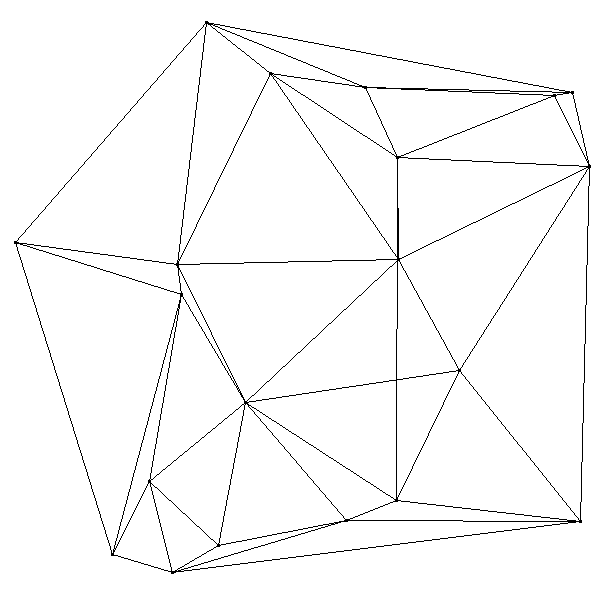
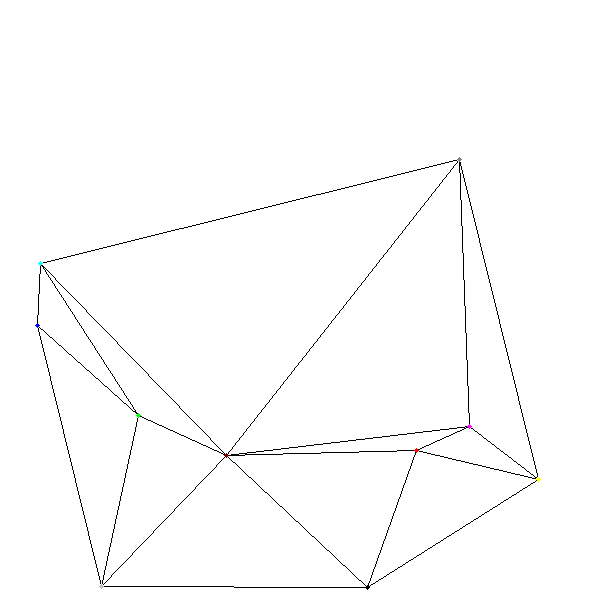
hotovo bez komentaru

diff --git a/simple_images.py b/simple_images.py
@@ -108,6 +108,25 @@ class bmpDrawing:
     size_x= 0
     size_y= 0
 
+    color_pointer = 0
+
+    # ccolors = [(0,0,0),(255,255),(255,0,0),(0,255,0),(0,0,255),(255,255,0),(0,255,255),(255,0,255),(192,192,192),(128,128,128),(128,0,0),(128,128,0),(0,128,0),(128,0,128),(0,128,128),(0,0,128)]
+    colors = [("Black", (0, 0, 0)),
+              ("Red", (255, 0, 0)),
+              ("Lime", (0, 255, 0)),
+              ("Blue", (0, 0, 255)),
+              ("Yellow", (255, 255, 0)),
+              ("CyanAqua", (0, 255, 255)),
+              ("Magenta", (255, 0, 255)),
+              ("Silver", (192, 192, 192)),
+              ("Gray", (128, 128, 128)),
+              ("Maroon", (128, 0, 0)),
+              ("Olive", (128, 128, 0)),
+              ("Green", (0, 128, 0)),
+              ("Purple", (128, 0, 128)),
+              ("Teal", (0, 128, 128)),
+              ("Navy", (0, 0, 128)),
+              ]
     img = None
 
     def __init__(self,filename="easters.png",x=255,y=255):
@@ -117,12 +136,15 @@ class bmpDrawing:
         self.img = Image.new("RGB", (x, y), (255,255,255))
 
     def putpixel(self,i, j, r, g, b):
-        self.img.putpixel((i,j),(r,g,b))
+        self.img.putpixel((i,self.size_y - j),(r,g,b))
+
+    def putpixel_2(self, i, j, color):
+        self.img.putpixel((i, self.size_y - j), color)
 
     def testImage(self):
         for i in range(self.size_x):    # for every pixel:
             for j in range(self.size_y):
-                self.img.putpixel((i,j),(i,j,50))
+                self.putpixel(i,j,i,j,50)
         self.img.show()
 
     def show(self):
@@ -132,15 +154,36 @@ class bmpDrawing:
         self.img.save(self.filename)
 
     def put_big_dot(self, px, py):
-        self.img.putpixel((px, py), (0, 0, 0))
-        self.img.putpixel((px + 1, py), (0, 0, 0))
-        self.img.putpixel((px - 1, py), (0, 0, 0))
-        self.img.putpixel((px, py + 1), (0, 0, 0))
-        self.img.putpixel((px, py - 1), (0, 0, 0))
-        self.img.putpixel((px + 1, py + 1), (0, 0, 0))
-        self.img.putpixel((px - 1, py - 1), (0, 0, 0))
-        self.img.putpixel((px - 1, py + 1), (0, 0, 0))
-        self.img.putpixel((px + 1, py - 1), (0, 0, 0))
+        self.putpixel(px, py, 0, 0, 0)
+        self.putpixel(px + 1, py, 0, 0, 0)
+        self.putpixel(px - 1, py, 0, 0, 0)
+        self.putpixel(px, py + 1, 0, 0, 0)
+        self.putpixel(px, py - 1, 0, 0, 0)
+        self.putpixel(px + 1, py + 1, 0, 0, 0)
+        self.putpixel(px - 1, py - 1, 0, 0, 0)
+        self.putpixel(px - 1, py + 1, 0, 0, 0)
+        self.putpixel(px + 1, py - 1, 0, 0, 0)
+
+    def put_big_dot_color(self,px,py):
+
+        print("DOT",px,py,self.colors[self.color_pointer%len(self.colors)][0])
+
+        for d in [(1,0),(0,1),(1,1),(-1,-1),(1,-1),(-1,1),(-1,0),(0,-1),(0,0), (2,0),(0,2),(-2,0),(0,-2)]:
+            x= px + d[0]
+            y= py + d[1]
+            self.putpixel_2(x,y,self.colors[self.color_pointer%len(self.colors)][1])
+
+        self.color_pointer = self.color_pointer + 1
+        # self.putpixel(px, py, 0, 0, 0)
+        # self.putpixel(px + 1, py, 0, 0, 0)
+        # self.putpixel(px - 1, py, 0, 0, 0)
+        # self.putpixel(px, py + 1, 0, 0, 0)
+        # self.putpixel(px, py - 1, 0, 0, 0)
+        # self.putpixel(px + 1, py + 1, 0, 0, 0)
+        # self.putpixel(px - 1, py - 1, 0, 0, 0)
+        # self.putpixel(px - 1, py + 1, 0, 0, 0)
+        # self.putpixel(px + 1, py - 1, 0, 0, 0)
+
 
     def draw_line(self, x0, y0, x1, y1):
         # print(x0, y0, x1, y1)
@@ -154,7 +197,7 @@ class bmpDrawing:
         if dx > dy:
             err = dx / 2.0
             while x != x1:
-                self.img.putpixel((x, y), (0, 0, 0))
+                self.putpixel(x, y, 0, 0, 0)
                 err -= dy
                 if err < 0:
                     y += sy
@@ -163,13 +206,13 @@ class bmpDrawing:
         else:
             err = dy / 2.0
             while y != y1:
-                self.img.putpixel((x, y), (0, 0, 0))
+                self.putpixel(x, y, 0, 0, 0)
                 err -= dx
                 if err < 0:
                     x += sx
                     err += dy
                 y += sy
-        self.img.putpixel((x, y), (0, 0, 0))
+        self.putpixel(x, y, 0, 0, 0)
 
     # def __del__(self):
         # self.img.save(self.filename)

diff --git a/05/05_B.py b/05/05_B.py
@@ -14,16 +14,18 @@ def prusecik_usecek(p1,p2,p3,p4):
     x3 = p4[0]
     y3 = p4[1]
 
+    # print()
+
     #pokud je primka svisla? x1==x2
     if x0==x1 or x2==x3:
         print("primka je svisla")
 
 
-    if ((x0 - x1) * (y2 - y3) - (y0 - y1) * (x2 - x3)) ==0:
-         return True
+    # if ((x0 - x1) * (y2 - y3) - (y0 - y1) * (x2 - x3)) ==0:
+    #      return True
 
-    px = int(((x0 * y1 - y0 * x1) * (x2 - x3) - (x0 - x1) * (x2 * y3 - y2 * x3)) / ((x0 - x1) * (y2 - y3) - (y0 - y1) * (x2 - x3)))
-    py = int(((x0 * y1 - y0 * x1) * (y2 - y3) - (y0 - y1) * (x2 * y3 - y2 * x3)) / ((x0 - x1) * (y2 - y3) - (y0 - y1) * (x2 - x3)))
+    px = ((x0*y1 - y0 * x1) * (x2 - x3) - (x0 - x1) * (x2 * y3 - y2 * x3)) / ((x0 - x1) * (y2 - y3) - (y0 - y1) * (x2 - x3))
+    py = ((x0*y1 - y0 * x1) * (y2 - y3) - (y0 - y1) * (x2 * y3 - y2 * x3)) / ((x0 - x1) * (y2 - y3) - (y0 - y1) * (x2 - x3))
 
     if x2 <= x3 and not (x2 <= px <= x3):
         return  False
@@ -55,16 +57,28 @@ def triangulace_random():
     SIZE = 600
     img = simple_images.bmpDrawing("triangulace.png", SIZE, SIZE)
 
-    N = 20
+    N = 10
 
     points = []
 
-    #nahodne vygeneruj N bodu a vykresli je do platna
+    # points.append([574, 313])
+    # points.append([30, 314])
+    # points.append([257, 118])
+    # points.append([510, 106])
+    # points.append([270, 484])
+    # points.append([328, 103])
+    # points.append([176, 578])
+    # points.append([280, 98])
+    # points.append([512, 478])
+    # points.append([242, 268])
+
+
+    # nahodne vygeneruj N bodu a vykresli je do platna
     for i in range(N):
         x = int(random.uniform(10,SIZE-10))
         y = int(random.uniform(10,SIZE-10))
 
-        img.put_big_dot(x,y)
+        # img.put_big_dot_color(x,y)
         points.append([x,y])
 
 
@@ -80,6 +94,8 @@ def triangulace_random():
             for p2 in points:
                 if p1==p2:
                     continue
+                if [p1,p2] in pridane_usecky or [p2,p1] in pridane_usecky:
+                    continue
                 #zkontroluj zda je usecka kratsi
                 if distance_points(p1,p2)<nejmensi_vzdalenost:
                     prusecik_existuje = False
@@ -87,9 +103,6 @@ def triangulace_random():
                     for usecka in pridane_usecky:
                         p3 = usecka[0]
                         p4 = usecka[1]
-                        if (p1==p3 and p2==p4) or (p1==p4 and p2==p3):
-                            prusecik_existuje =True
-                            break
                         if prusecik_usecek(p1,p2,p3,p4):
                             prusecik_existuje= True
                             break
@@ -102,7 +115,8 @@ def triangulace_random():
 
 
         #zakresli a pridej nejkratsi usecku
-        if candidate_p2!=None:
+        if nejmensi_vzdalenost!=2*SIZE:
+            print("usecka",candidate_p1[0], candidate_p1[1], candidate_p2[0], candidate_p2[1])
             pridane_usecky.append([candidate_p1, candidate_p2])
             img.draw_line(candidate_p1[0], candidate_p1[1], candidate_p2[0], candidate_p2[1])
 
@@ -110,11 +124,17 @@ def triangulace_random():
 
         break
 
+    for p in points:
+        img.put_big_dot_color(p[0],p[1])
+
+
 
 
     img.show()
     img.save()
 
+
+    # print(prusecik_usecek((30,314),(574,313), (270,484), (242, 268) ))
 
 
 triangulace_random()

diff --git a/05/05_A.py b/05/05_A.py
@@ -79,8 +79,8 @@ def najdi_pruseciky():
                 continue
 
             #vypocet souradnice pruseciku dvou primek
-            px = int(((x0*y1-y0*x1)*(x2-x3)-(x0-x1)*(x2*y3-y2*x3))/((x0-x1)*(y2-y3)-(y0-y1)*(x2-x3)))
-            py = int(((x0*y1-y0*x1)*(y2-y3)-(y0-y1)*(x2*y3-y2*x3))/((x0-x1)*(y2-y3)-(y0-y1)*(x2-x3)))
+            px = ((x0*y1-y0*x1)*(x2-x3)-(x0-x1)*(x2*y3-y2*x3))/((x0-x1)*(y2-y3)-(y0-y1)*(x2-x3))
+            py = ((x0*y1-y0*x1)*(y2-y3)-(y0-y1)*(x2*y3-y2*x3))/((x0-x1)*(y2-y3)-(y0-y1)*(x2-x3))
 
 
             #zkontroluj zda nalezeny prusek lezi na useckach
@@ -106,7 +106,7 @@ def najdi_pruseciky():
                 continue
 
             #zvyrazni vypocitany prusecik jako velke tecky
-            img.put_big_dot(px,py)
+            img.put_big_dot(int(px),int(py))
 
 
     img.show()
